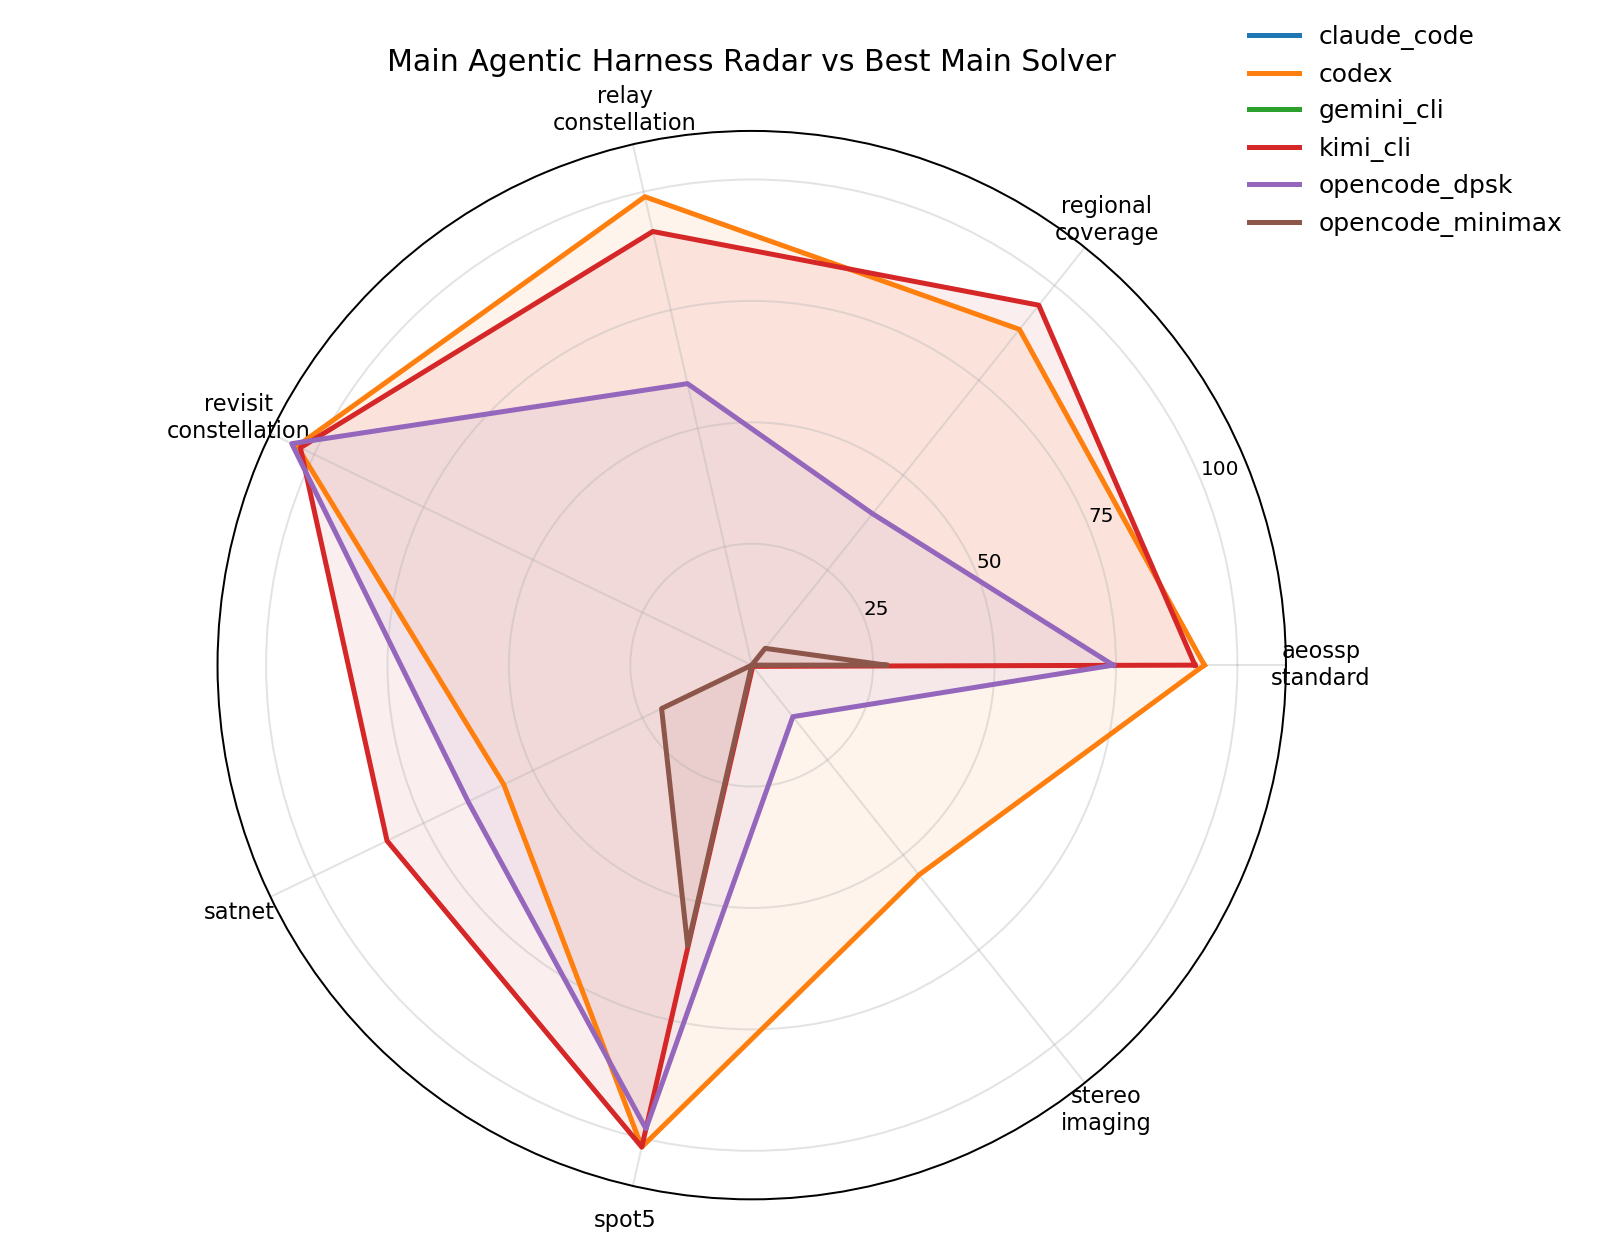
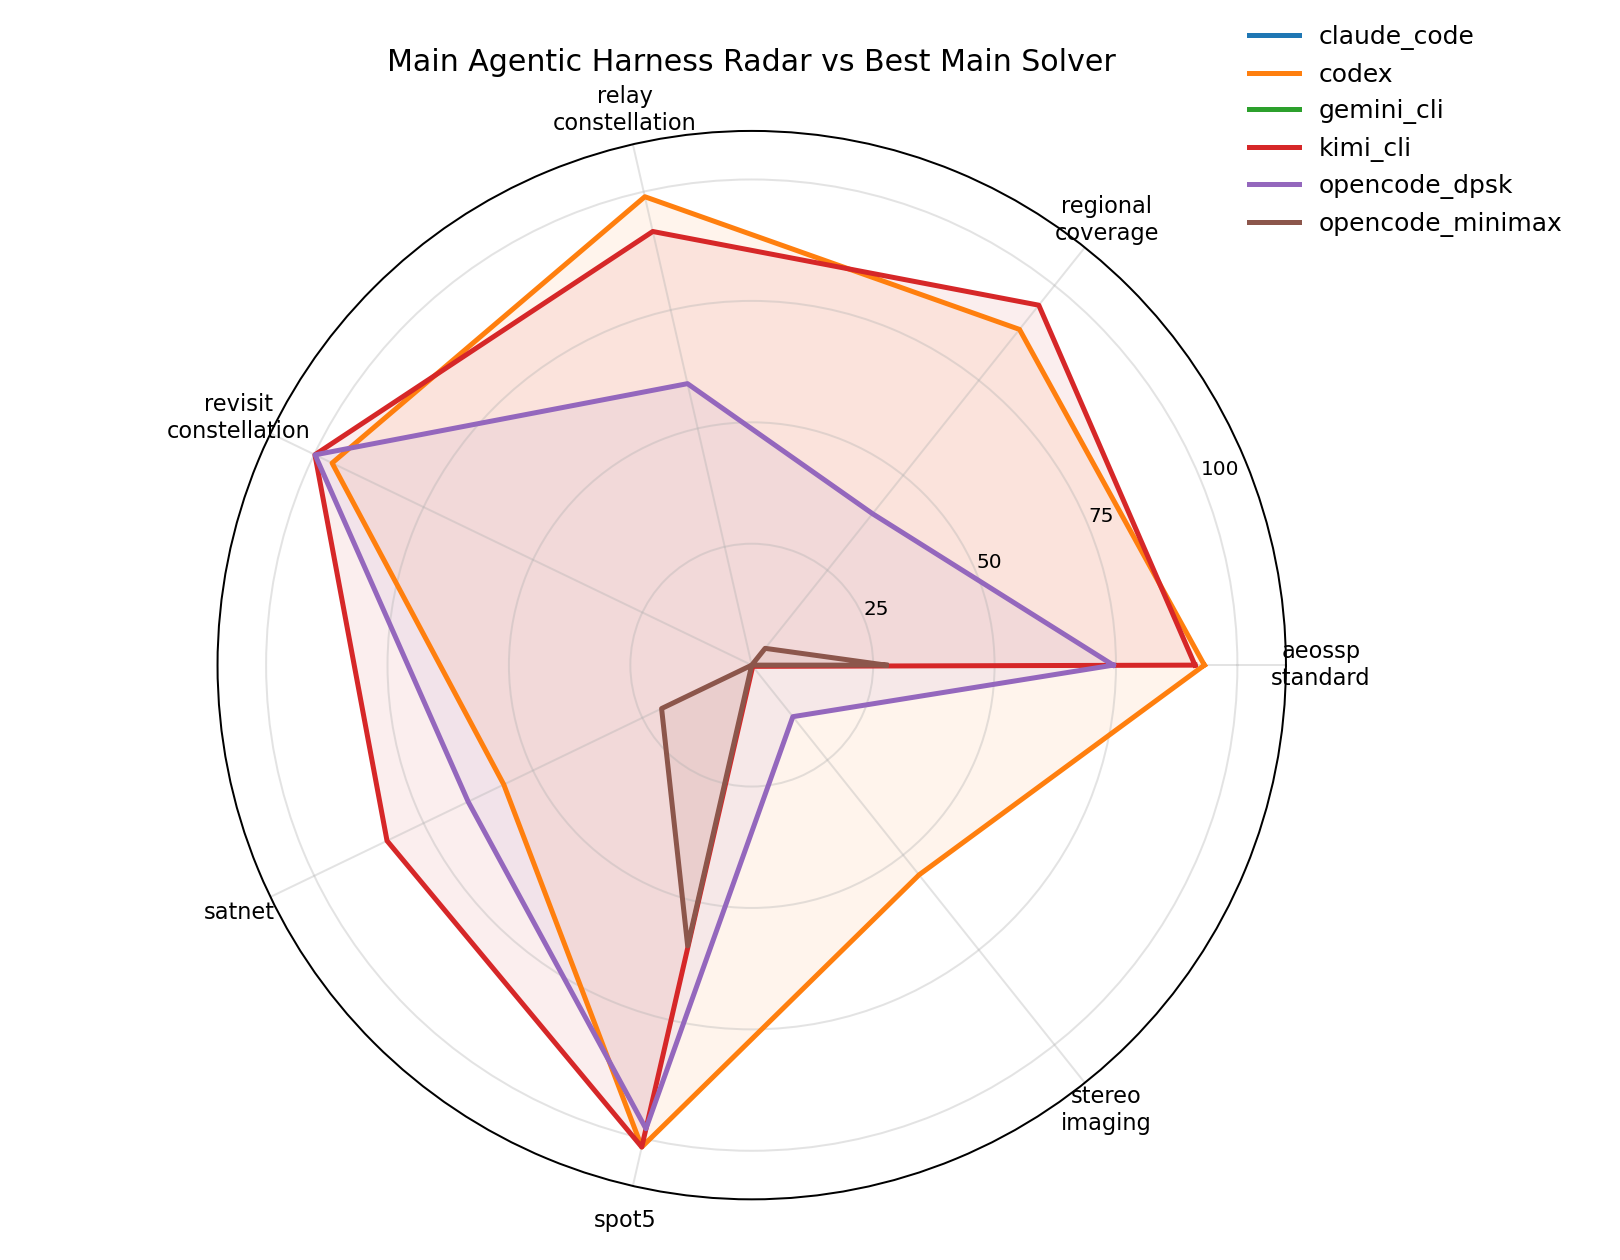
More results

Changed region(s): [[0.1852, 0.1548, 0.4012, 0.619]]

diff --git a/experiments/main_agentic/reports/revisit_constellation.md b/experiments/main_agentic/reports/revisit_constellation.md
@@ -4,47 +4,47 @@ Generated from the current `main_agentic` aggregate summaries.
 
 | Harness | Present | Success | Valid | Invalid | Timeout | Primary Mean | Processed Mean |
 | --- | ---: | ---: | ---: | ---: | ---: | ---: | ---: |
-| codex | 5 | 5 | 5 | 0 | 0 | capped_max_revisit_gap_hours=9.8668 | revisit_score_pct=98.59 |
-| kimi_cli | 5 | 5 | 5 | 0 | 0 | capped_max_revisit_gap_hours=9.9796 | revisit_score_pct=98.16 |
-| opencode_minimax | 5 | 1 | 1 | 3 | 1 | capped_max_revisit_gap_hours=48.00 | revisit_score_pct=0.0000 |
-| opencode_dpsk | 5 | 5 | 5 | 0 | 0 | capped_max_revisit_gap_hours=9.6347 | revisit_score_pct=99.83 |
+| codex | 5 | 5 | 5 | 0 | 0 | capped_max_revisit_gap_hours=7.6650 | revisit_score_pct=95.91 |
+| kimi_cli | 5 | 5 | 5 | 0 | 0 | capped_max_revisit_gap_hours=6.8357 | revisit_score_pct=99.84 |
+| opencode_minimax | 5 | 0 | 0 | 5 | 0 | capped_max_revisit_gap_hours=- | revisit_score_pct=0.0000 |
+| opencode_dpsk | 5 | 5 | 5 | 0 | 0 | capped_max_revisit_gap_hours=6.8411 | revisit_score_pct=99.80 |
 
 ## codex
 
 | Case | Overall | Verifier | Valid | Duration (s) | capped_max_revisit_gap_hours | num_satellites | revisit_score_pct |
 | --- | --- | --- | --- | ---: | ---: | ---: | ---: |
-| case_0001 | success | valid | true | 1471.7 | 8.0000 | 10 | 100.0 |
-| case_0002 | success | valid | true | 2720.6 | 8.0000 | 12 | 100.0 |
-| case_0003 | success | valid | true | 2673.1 | 8.0000 | 12 | 100.0 |
-| case_0004 | success | valid | true | 2822.4 | 13.33 | 12 | 92.94 |
-| case_0005 | success | valid | true | 2495.0 | 12.00 | 13 | 100.0 |
+| case_0001 | success | valid | true | 1773.5 | 6.0628 | 18 | 99.70 |
+| case_0002 | success | valid | true | 1521.8 | 8.0000 | 9 | 100.0 |
+| case_0003 | success | valid | true | 2439.7 | 6.0000 | 15 | 100.0 |
+| case_0004 | success | valid | true | 2184.3 | 12.26 | 19 | 79.83 |
+| case_0005 | success | valid | true | 2119.5 | 6.0000 | 19 | 100.0 |
 
 ## kimi_cli
 
 | Case | Overall | Verifier | Valid | Duration (s) | capped_max_revisit_gap_hours | num_satellites | revisit_score_pct |
 | --- | --- | --- | --- | ---: | ---: | ---: | ---: |
-| case_0001 | success | valid | true | 7206.9 | 8.6016 | 18 | 97.08 |
-| case_0002 | success | valid | true | 6163.0 | 8.0000 | 16 | 100.0 |
-| case_0003 | success | valid | true | 7200.5 | 9.2962 | 12 | 93.74 |
-| case_0004 | success | valid | true | 7200.9 | 12.00 | 6 | 100.0 |
-| case_0005 | success | valid | true | 3798.9 | 12.00 | 8 | 100.0 |
+| case_0001 | success | valid | true | 4000.9 | 6.1784 | 14 | 99.18 |
+| case_0002 | success | valid | true | 4738.0 | 8.0000 | 8 | 100.0 |
+| case_0003 | success | valid | true | 3814.1 | 6.0000 | 20 | 100.0 |
+| case_0004 | success | valid | true | 5601.1 | 8.0000 | 18 | 100.0 |
+| case_0005 | success | valid | true | 5601.7 | 6.0000 | 12 | 100.0 |
 
 ## opencode_dpsk
 
 | Case | Overall | Verifier | Valid | Duration (s) | capped_max_revisit_gap_hours | num_satellites | revisit_score_pct |
 | --- | --- | --- | --- | ---: | ---: | ---: | ---: |
-| case_0001 | success | valid | true | 7200.6 | 8.0000 | 18 | 100.0 |
-| case_0002 | success | valid | true | 7123.3 | 8.0000 | 12 | 100.0 |
-| case_0003 | success | valid | true | 7200.5 | 8.1733 | 12 | 99.17 |
-| case_0004 | success | valid | true | 4432.1 | 12.00 | 6 | 100.0 |
-| case_0005 | success | valid | true | 4009.4 | 12.00 | 12 | 100.0 |
+| case_0001 | success | valid | true | 6434.9 | 6.0000 | 15 | 100.0 |
+| case_0002 | success | valid | true | 5161.0 | 8.0000 | 15 | 100.0 |
+| case_0003 | success | valid | true | 3162.4 | 6.0000 | 20 | 100.0 |
+| case_0004 | success | valid | true | 6754.5 | 8.2053 | 19 | 99.01 |
+| case_0005 | success | valid | true | 4811.5 | 6.0000 | 16 | 100.0 |
 
 ## opencode_minimax
 
 | Case | Overall | Verifier | Valid | Duration (s) | capped_max_revisit_gap_hours | num_satellites | revisit_score_pct |
 | --- | --- | --- | --- | ---: | ---: | ---: | ---: |
-| case_0001 | verifier_invalid | invalid | false | 3113.1 | - | - | 0.0000 |
-| case_0002 | success | valid | true | 3466.4 | 48.00 | 8 | 0.0000 |
-| case_0003 | timeout | no_solution | - | 7201.4 | - | - | 0.0000 |
-| case_0004 | verifier_invalid | invalid | false | 916.5 | - | - | 0.0000 |
-| case_0005 | verifier_invalid | invalid | false | 6896.2 | - | - | 0.0000 |
+| case_0001 | verifier_invalid | invalid | false | 3240.2 | - | - | 0.0000 |
+| case_0002 | verifier_invalid | invalid | false | 3839.1 | - | - | 0.0000 |
+| case_0003 | verifier_invalid | invalid | false | 1441.4 | - | - | 0.0000 |
+| case_0004 | verifier_invalid | invalid | false | 3642.4 | - | - | 0.0000 |
+| case_0005 | verifier_invalid | invalid | false | 4541.7 | - | - | 0.0000 |

diff --git a/experiments/main_agentic/reports/satnet.md b/experiments/main_agentic/reports/satnet.md
@@ -4,10 +4,21 @@ Generated from the current `main_agentic` aggregate summaries.
 
 | Harness | Present | Success | Valid | Invalid | Timeout | Primary Mean | Processed Mean |
 | --- | ---: | ---: | ---: | ---: | ---: | ---: | ---: |
+| claude_code_dpsk | 5 | 4 | 4 | 0 | 0 | score_hours=1050.7 | - |
 | codex | 5 | 5 | 5 | 0 | 0 | score_hours=1461.8 | - |
 | kimi_cli | 5 | 5 | 5 | 0 | 0 | score_hours=1207.6 | - |
 | opencode_minimax | 5 | 2 | 2 | 0 | 0 | score_hours=930.5 | - |
 | opencode_dpsk | 5 | 4 | 4 | 0 | 0 | score_hours=1127.6 | - |
+
+## claude_code_dpsk
+
+| Case | Overall | Verifier | Valid | Duration (s) | score_hours | n_satisfied_requests | u_rms | u_max | n_tracks |
+| --- | --- | --- | --- | ---: | ---: | ---: | ---: | ---: | ---: |
+| W10_2018 | verifier_error | error | - | 3040.4 | - | - | - | - | - |
+| W20_2018 | success | valid | true | 1518.8 | 1052.2 | 208 | 0.2775 | 0.7143 | 316 |
+| W30_2018 | success | valid | true | 2130.3 | 1218.5 | 226 | 0.3542 | 0.8222 | 270 |
+| W40_2018 | success | valid | true | 4436.7 | 1025.1 | 172 | 0.5232 | 1.0000 | 242 |
+| W50_2018 | success | valid | true | 1172.1 | 906.9 | 163 | 0.5108 | 1.0000 | 179 |
 
 ## codex
 

diff --git a/experiments/main_agentic/reports/stereo_imaging.md b/experiments/main_agentic/reports/stereo_imaging.md
@@ -6,7 +6,7 @@ Generated from the current `main_agentic` aggregate summaries.
 | --- | ---: | ---: | ---: | ---: | ---: | ---: | ---: |
 | codex | 5 | 5 | 5 | 0 | 0 | normalized_quality=0.5378 | - |
 | kimi_cli | 5 | 4 | 4 | 0 | 0 | normalized_quality=0.0039 | - |
-| opencode_minimax | 1 | 0 | 0 | 0 | 0 | normalized_quality=- | - |
+| opencode_minimax | 5 | 1 | 1 | 1 | 0 | normalized_quality=0.0000 | - |
 | opencode_dpsk | 5 | 4 | 4 | 1 | 0 | normalized_quality=0.1624 | - |
 
 ## codex
@@ -43,4 +43,8 @@ Generated from the current `main_agentic` aggregate summaries.
 
 | Case | Overall | Verifier | Valid | Duration (s) | normalized_quality | coverage_ratio |
 | --- | --- | --- | --- | ---: | ---: | ---: |
+| case_0001 | success | valid | true | 6512.8 | 0.0000 | 0.0000 |
 | case_0002 | verifier_error | error | - | 864.1 | - | - |
+| case_0003 | verifier_error | error | - | 4550.7 | - | - |
+| case_0004 | verifier_error | error | - | 717.0 | - | - |
+| case_0005 | verifier_invalid | invalid | false | 3852.4 | 0.0000 | 0.0000 |
